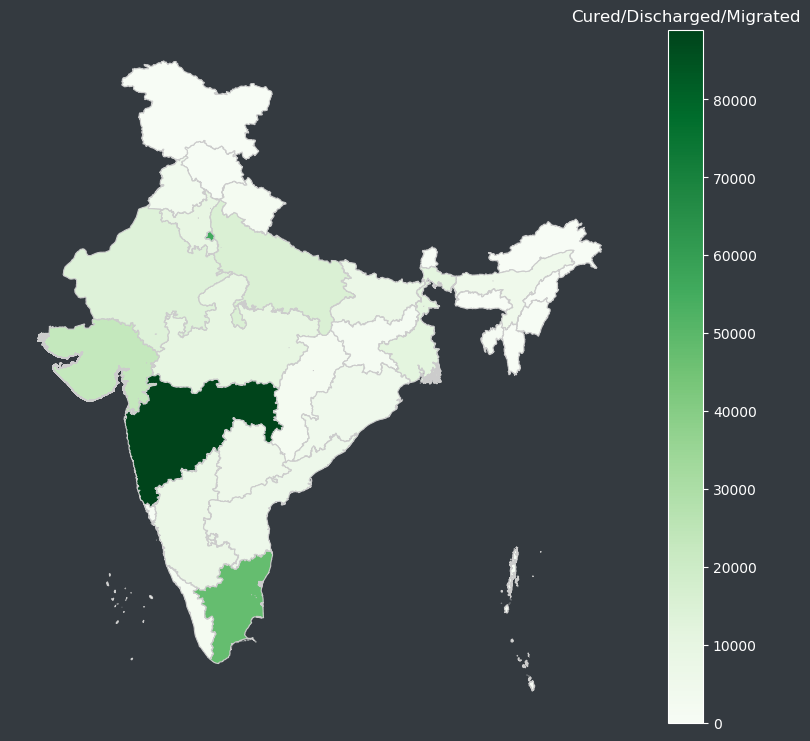
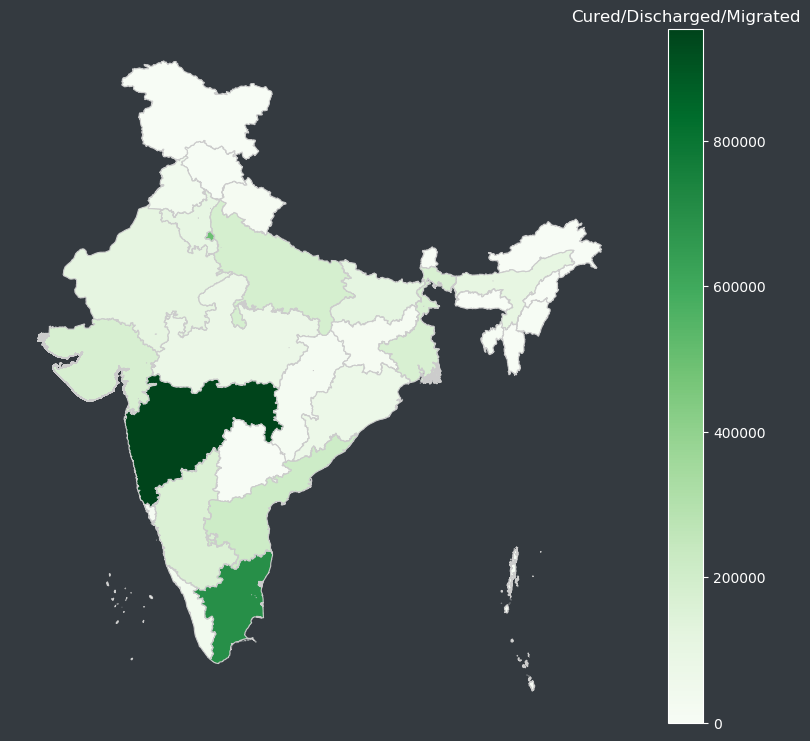
2.0

diff --git a/app.py b/app.py
@@ -7,29 +7,6 @@ import numpy as np
 from matplotlib.colors import Normalize
 import matplotlib.cm
 import pandas as pd
-# def scrape(url):
-#     list=[[],[],[],[],[]]
-#     l=[]
-#     sauce =urllib.request.urlopen(url).read()
-#     soup=bs.BeautifulSoup(sauce,features='lxml')
-#     k=soup.find('table',class_="table table-striped")
-#     sauce =str(k)
-#     soup=bs.BeautifulSoup(sauce,features='lxml')
-#     k=soup.find_all('tr')
-#     c=0
-#     for i in k:
-#         l=[]
-#         sauce =str(i)
-#         soup=bs.BeautifulSoup(sauce,features='lxml')
-#         k1=soup.find_all('td')
-#         if len(k1)==6 and c<=34:
-#             c=c+1
-#             for n in range(5):
-#                 l.append(k1[n].text)
-#             for p in range(5):
-#                 list[p].append(l[p])
-#     return list
-#
 # def convert(x):
 #     if(x[-1]=='#'):
 #         return int(x[:-1])
@@ -39,96 +16,87 @@ import pandas as pd
 #         return x[:-1]
 #     return x
 #
-# a=[]
 #
-# def run():
-#     global a
-#     a=scrape('https://www.mohfw.gov.in/')
-#
-#     data=map(convert1,a[1])
-#     a[1]=list(data)
-#     data1=map(convert,a[2])
-#
-#     a[2]=list(data1)
-#     data=map(convert,a[3])
-#     a[3]=list(data)
-#     data=map(convert,a[4])
-#     a[4]=list(data)
-#     data=pd.DataFrame({'area':a[1],'count':a[2],'cured':a[3],'deaths':a[4]})
-#     data.loc[0,'area']='Andaman & Nicobar Island'
-#     data.loc[8,'area']='NCT of Delhi'
-#
-#     fp = "static/Igismap/Indian_States.shp"
-#     map_df = gpd.read_file(fp)
-#     merged = map_df.set_index('st_nm').join(data.set_index('area'))
-#     merged.head()
-#     merged.fillna(0,inplace=True)
-#
-#     fig, ax = plt.subplots(figsize=(10,9))
-#     plt.style.use("dark_background")
-#
-#     ax.axis('off')
-#
-#     merged.plot(column='cured', cmap='Greens', linewidth=0.8, ax=ax, edgecolor='0.8')
-#     mapper = matplotlib.cm.ScalarMappable(norm=plt.Normalize(vmin=0, vmax=data['cured'].max()), cmap='Greens')
-#
-#     mapper.set_array(data['cured'])
-#     cbar=plt.colorbar(mapper)
-#     cbar.ax.set_title('Cured/Discharged/Migrated',color='white')
-#     plt.rcParams['savefig.facecolor']='#343a40'
-#     plt.savefig('static/map1.png',bbox_inches='tight')
-#
-#
-#
-#
-#     fig, ax = plt.subplots(figsize=(10,9))
-#     plt.style.use("dark_background")
-#
-#     ax.axis('off')
-#
-#     merged.plot(column='deaths', cmap='YlOrRd', linewidth=0.8, ax=ax, edgecolor='0.8')
-#     mapper = matplotlib.cm.ScalarMappable(norm=plt.Normalize(vmin=0, vmax=data['deaths'].max()), cmap='YlOrRd')
-#
-#     mapper.set_array(data['deaths'])
-#     cbar=plt.colorbar(mapper)
-#     cbar.ax.set_title('Deaths',color='white')
-#     plt.rcParams['savefig.facecolor']='#343a40'
-#     plt.savefig('static/map2.png',bbox_inches='tight')
-#
-#
-#
-#
-#     fig, ax = plt.subplots(figsize=(10, 9))
-#     plt.style.use("dark_background")
-#
-#     ax.axis('off')
-#
-#     merged.plot(column='count', cmap='Blues', linewidth=0.8, ax=ax, edgecolor='0.8')
-#     mapper = matplotlib.cm.ScalarMappable(norm=plt.Normalize(vmin=0, vmax=data['count'].max()), cmap='Blues')
-#
-#     mapper.set_array(data['count'])
-#     cbar=plt.colorbar(mapper)
-#     cbar.ax.set_title('Active Cases',color='white')
-#     plt.rcParams['savefig.facecolor']='#343a40'
-#     plt.savefig('static/map.png',bbox_inches='tight')
-#
-#
-#
-#     active=sum(a[2])
-#     cured=sum(a[3])
-#     dead=sum(a[4])
-#
-#     a.append(active)
-#     a.append(cured)
-#     a.append(dead)
+def run():
+    data = pd.read_json("https://www.mohfw.gov.in/data/datanew.json")
+    data.drop(['sno','state_code'],axis=1,inplace = True)
+    data["Active since Yesterday"] = data['new_active'] - data['active']
+    data["Deaths since Yesterday"] = data['new_death'] - data['death']
+    data["Cured since Yesterday"] = data['new_cured'] - data['cured']
+    data.loc[0,'state_name']='Andaman & Nicobar Island'
+    data.loc[8,'state_name']='NCT of Delhi'
+
+    fp = "static/Igismap/Indian_States.shp"
+    map_df = gpd.read_file(fp)
+    merged = map_df.set_index('st_nm').join(data.set_index('state_name'))
+    merged.head()
+    merged.fillna(0,inplace=True)
+
+    fig, ax = plt.subplots(figsize=(10,9))
+    plt.style.use("dark_background")
+
+    ax.axis('off')
+
+    merged.plot(column='new_cured', cmap='Greens', linewidth=0.8, ax=ax, edgecolor='0.8')
+    mapper = matplotlib.cm.ScalarMappable(norm=plt.Normalize(vmin=0, vmax=data['new_cured'].max()), cmap='Greens')
+
+    mapper.set_array(data['new_cured'])
+    cbar=plt.colorbar(mapper)
+    cbar.ax.set_title('Cured/Discharged/Migrated',color='white')
+    plt.rcParams['savefig.facecolor']='#343a40'
+    plt.savefig('static/map1.png',bbox_inches='tight')
+
+
+
+
+    fig, ax = plt.subplots(figsize=(10,9))
+    plt.style.use("dark_background")
+
+    ax.axis('off')
+
+    merged.plot(column='new_death', cmap='YlOrRd', linewidth=0.8, ax=ax, edgecolor='0.8')
+    mapper = matplotlib.cm.ScalarMappable(norm=plt.Normalize(vmin=0, vmax=data['new_death'].max()), cmap='YlOrRd')
+
+    mapper.set_array(data['new_death'])
+    cbar=plt.colorbar(mapper)
+    cbar.ax.set_title('Deaths',color='white')
+    plt.rcParams['savefig.facecolor']='#343a40'
+    plt.savefig('static/map2.png',bbox_inches='tight')
+
+
+
+
+    fig, ax = plt.subplots(figsize=(10, 9))
+    plt.style.use("dark_background")
+
+    ax.axis('off')
+
+    merged.plot(column='new_active', cmap='Blues', linewidth=0.8, ax=ax, edgecolor='0.8')
+    mapper = matplotlib.cm.ScalarMappable(norm=plt.Normalize(vmin=0, vmax=data['new_active'].max()), cmap='Blues')
+
+    mapper.set_array(data['new_active'])
+    cbar=plt.colorbar(mapper)
+    cbar.ax.set_title('Active Cases',color='white')
+    plt.rcParams['savefig.facecolor']='#343a40'
+    plt.savefig('static/map.png',bbox_inches='tight')
+
+    a=[list(data.index)[1:],data['state_name'][:-1],data['new_active'][:-1],data['new_cured'][:-1],data['new_death'][:-1]]
+    active=sum(a[2])
+    cured=sum(a[3])
+    dead=sum(a[4])
+
+    a.append(active)
+    a.append(cured)
+    a.append(dead)
+    return a
 
 app = Flask(__name__)
 
 @app.route('/')
 def data():
-    # run()
-    # return render_template('maintenance.html',data=a)
-    return render_template('maintenance.html')
+    a = run()
+    return render_template('index.html',data=a)
+    # return render_template('maintenance.html')
 
 if __name__ == '__main__':
    app.run(debug = True)
